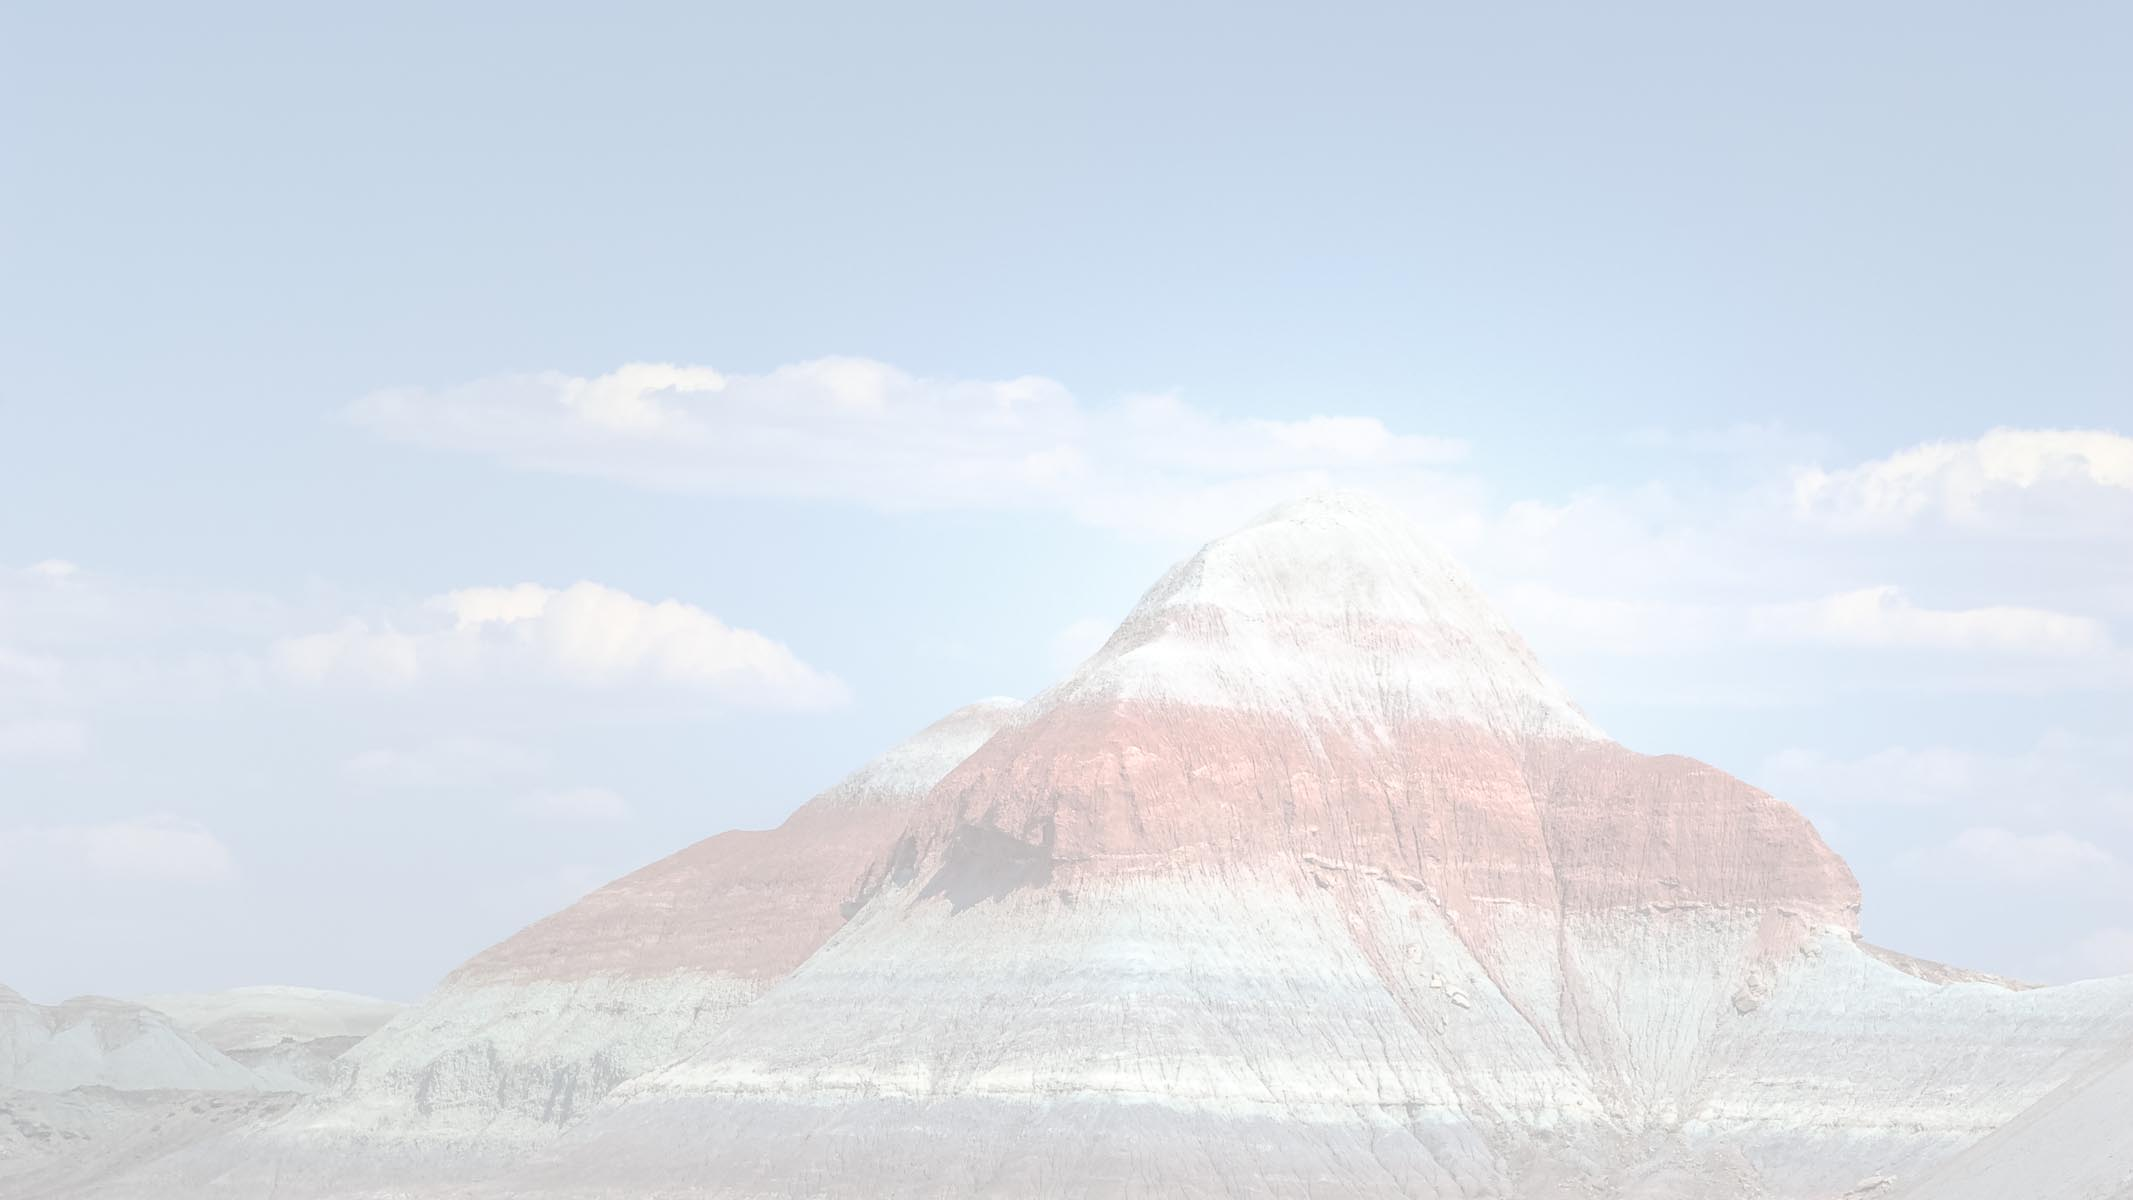
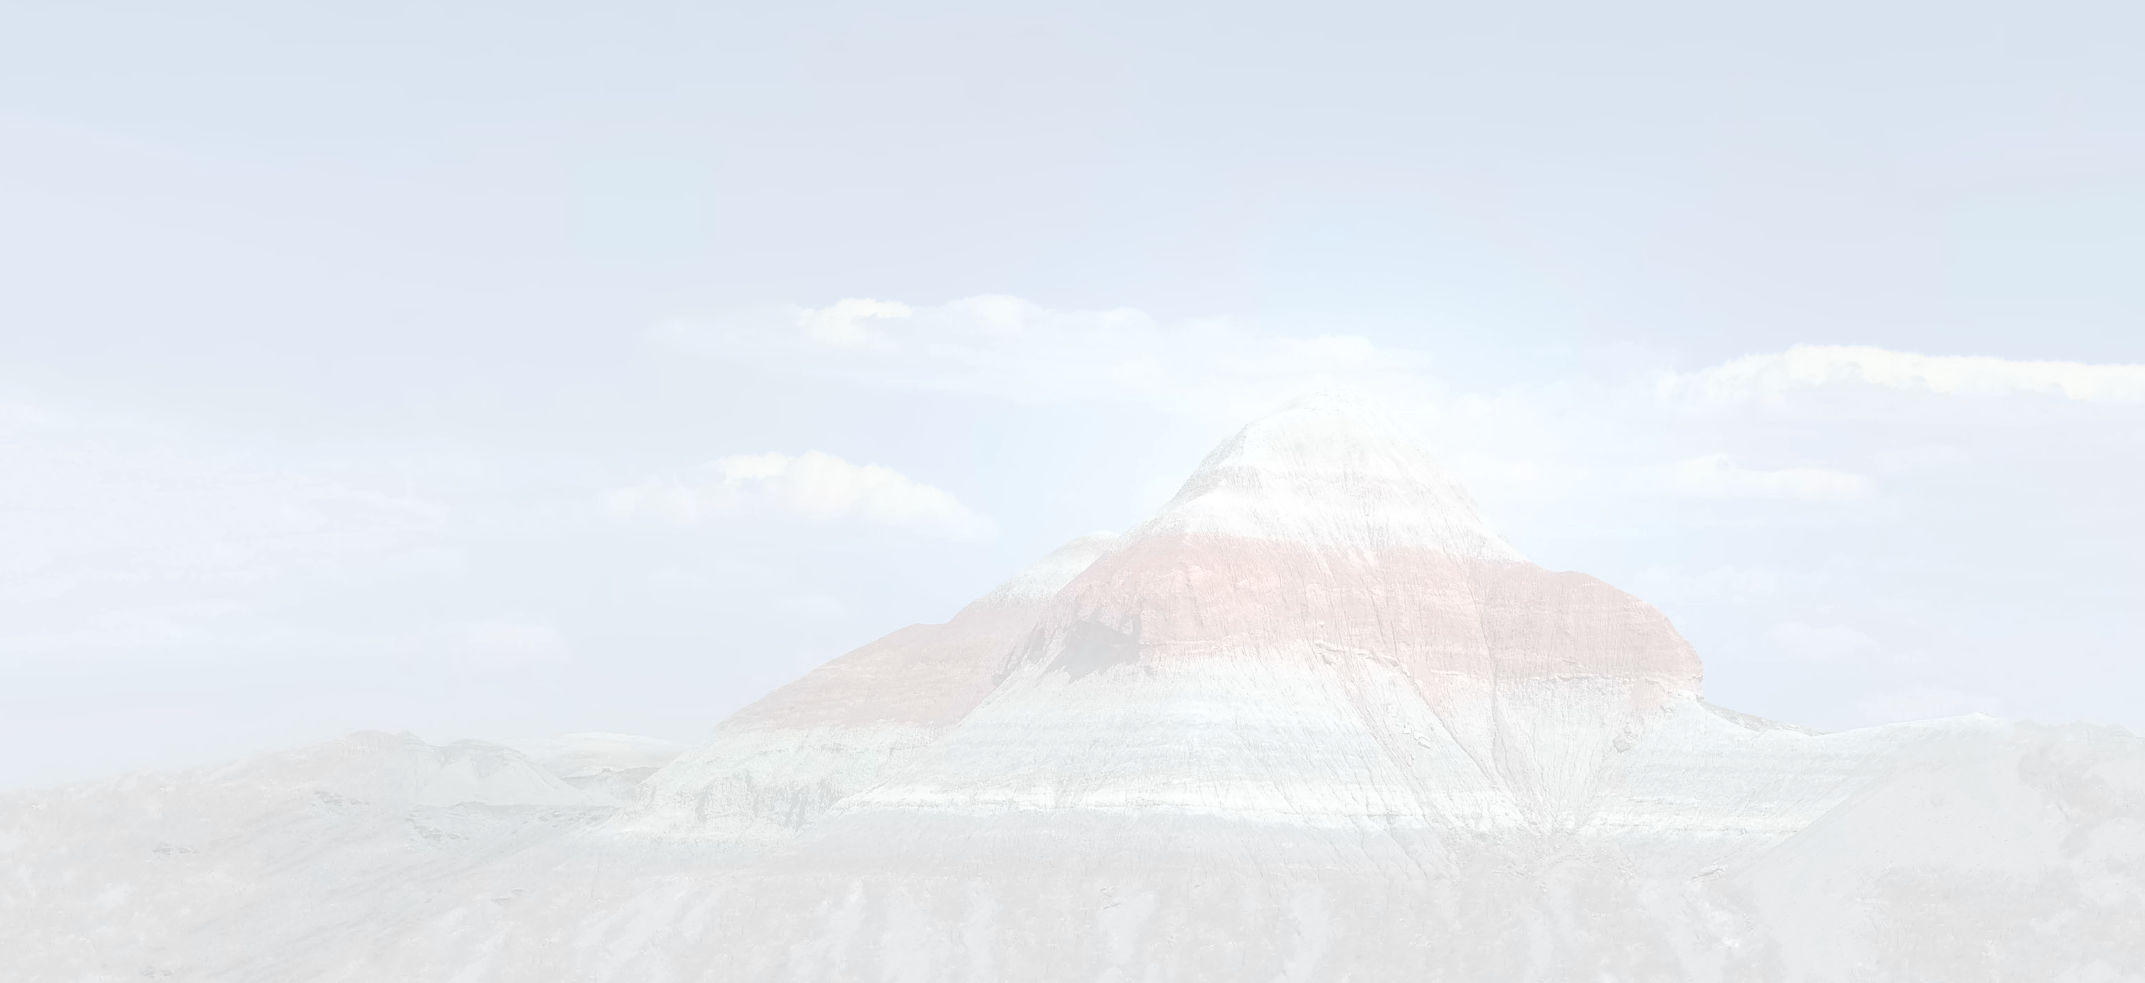
readjusted the header to match a revised mockup (& be smaller / lighter)

diff --git a/source/stylesheets/lib/site.sass b/source/stylesheets/lib/site.sass
@@ -1,3 +1,5 @@
+$bg-header-color: mix(#d2dfef, white, 60)
+
 body
   box-sizing: border-box
   color: #333
@@ -88,8 +90,8 @@ pre, code
     // See _bootstrap-custom.sass for bootstrap-related changes
     // (padding, color, etc.)
     font-family: $headings-font-family
-    font-size: 22pt
-    font-weight: 500
+    font-size: 18pt
+    font-weight: 400
     text-transform: lowercase
 
     a
@@ -105,7 +107,7 @@ pre, code
 
   @media screen and (max-width: 799px)
     nav
-      font-size: 18pt
+      //font-size: 18pt
 
   @media screen and (min-width: 1024px)
     .hgroup
@@ -120,10 +122,12 @@ pre, code
       width: auto
 
       li
-        $nav-active-border: 9px
+        $nav-active-border: 10px
+        $nav-bar-color: #204a87
+
 
         &.active
-          border-top: $nav-active-border solid rgba(#204a87, 0.25)
+          border-top: $nav-active-border solid rgba($nav-bar-color, 0.25)
 
           a
             position: relative
@@ -132,7 +136,7 @@ pre, code
         &:not(.active)
 
           &:hover
-            border-top: $nav-active-border solid rgba(#204a87, 0.1)
+            border-top: $nav-active-border solid rgba($nav-bar-color, 0.1)
 
             a
               position: relative
@@ -187,11 +191,11 @@ pre, code
 
 
 .page-header
-  background: #d2dfef
+  background: $bg-header-color
   background-size: 50%
   border-bottom: 1px solid rgba(0,0,0,0.25)
   margin: 0
-  padding: 5em 0 1em
+  padding: 4em 0 1em
   text-align: center
 
   h2
@@ -225,25 +229,28 @@ pre, code
 body.front-page
 
   .page-header
-    background: #d2dfef url(/images/header-paintedcandy.jpg) 42% 55%
+    background: $bg-header-color url(/images/header-paintedcandy.jpg) 42% 55%
     background-size: cover
-    padding-bottom: 6em
-    padding-top: 16em
+    padding: 11em 0 5em
     text-shadow: 0 0 15px white
 
     h2
       padding: 0
 
-.content > section:not(.page-header)
+.front-page .content > section:not(.page-header)
 
   // Add borders to the top of the sections (which are not the header)
   .row
     border-top: 1px solid #ddd
 
+
 .content > section
 
   .row
     padding: 3em 3em
+
+
+.front-page .content > section
 
   &.overview,
   &.get-started,
@@ -322,10 +329,6 @@ body > footer
 
 
 .features
-
-  .row
-
-  .col-xs-12
 
   .feature-item
     position: relative

diff --git a/source/stylesheets/_bootstrap-custom.sass b/source/stylesheets/_bootstrap-custom.sass
@@ -319,7 +319,7 @@ $headings-line-height: 1.1
 // Navs
 // -------------------------
 
-$nav-link-padding: 22px 26px
+$nav-link-padding: 24px 26px
 $nav-link-hover-bg: transparent
 
 //$nav-disabled-link-color: $gray-light
@@ -343,7 +343,7 @@ $nav-link-hover-bg: transparent
 // Pills
 //$nav-pills-active-link-hover-bg: $component-active-bg
 $nav-pills-active-link-hover-bg: transparent
-$nav-pills-active-link-hover-color: black
+$nav-pills-active-link-hover-color: rgba(0,0,0, 0.6)
 
 // Pagination
 // -------------------------
